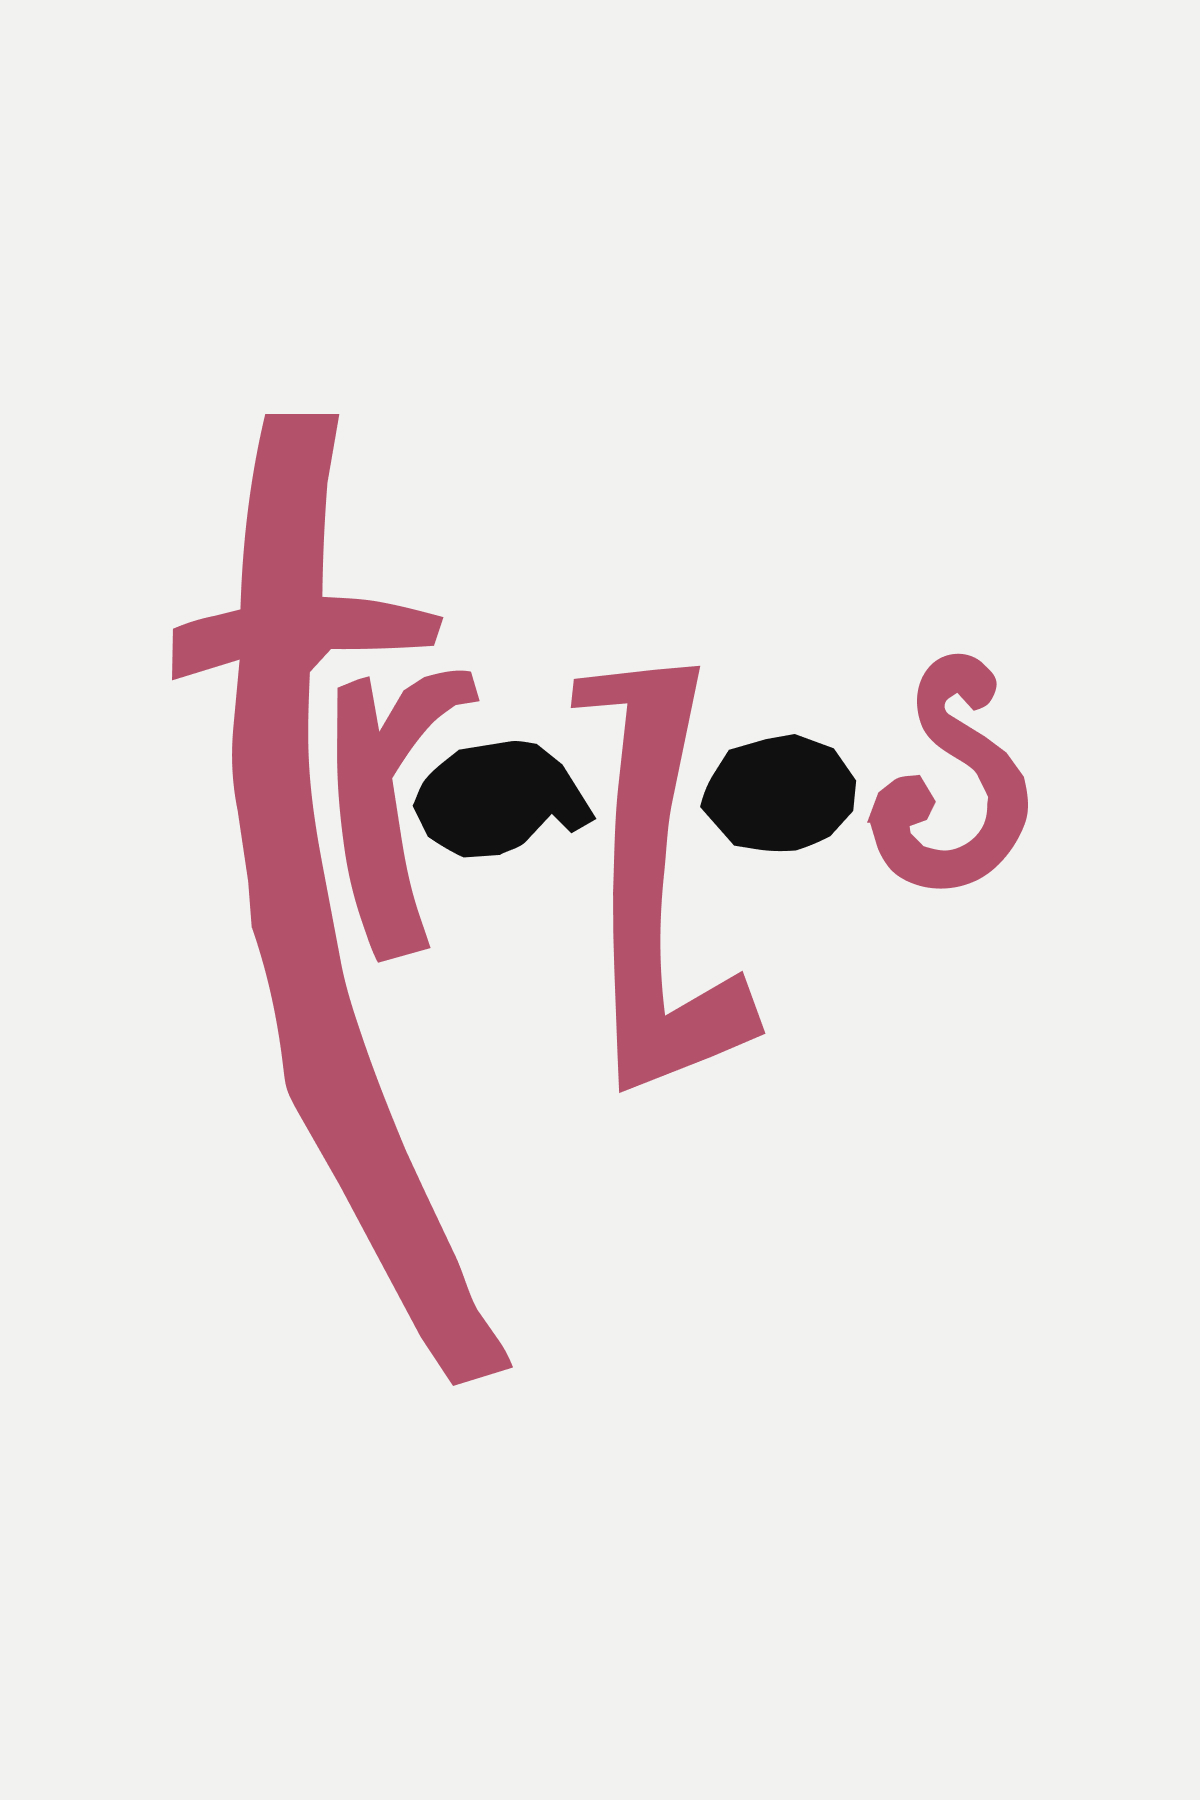
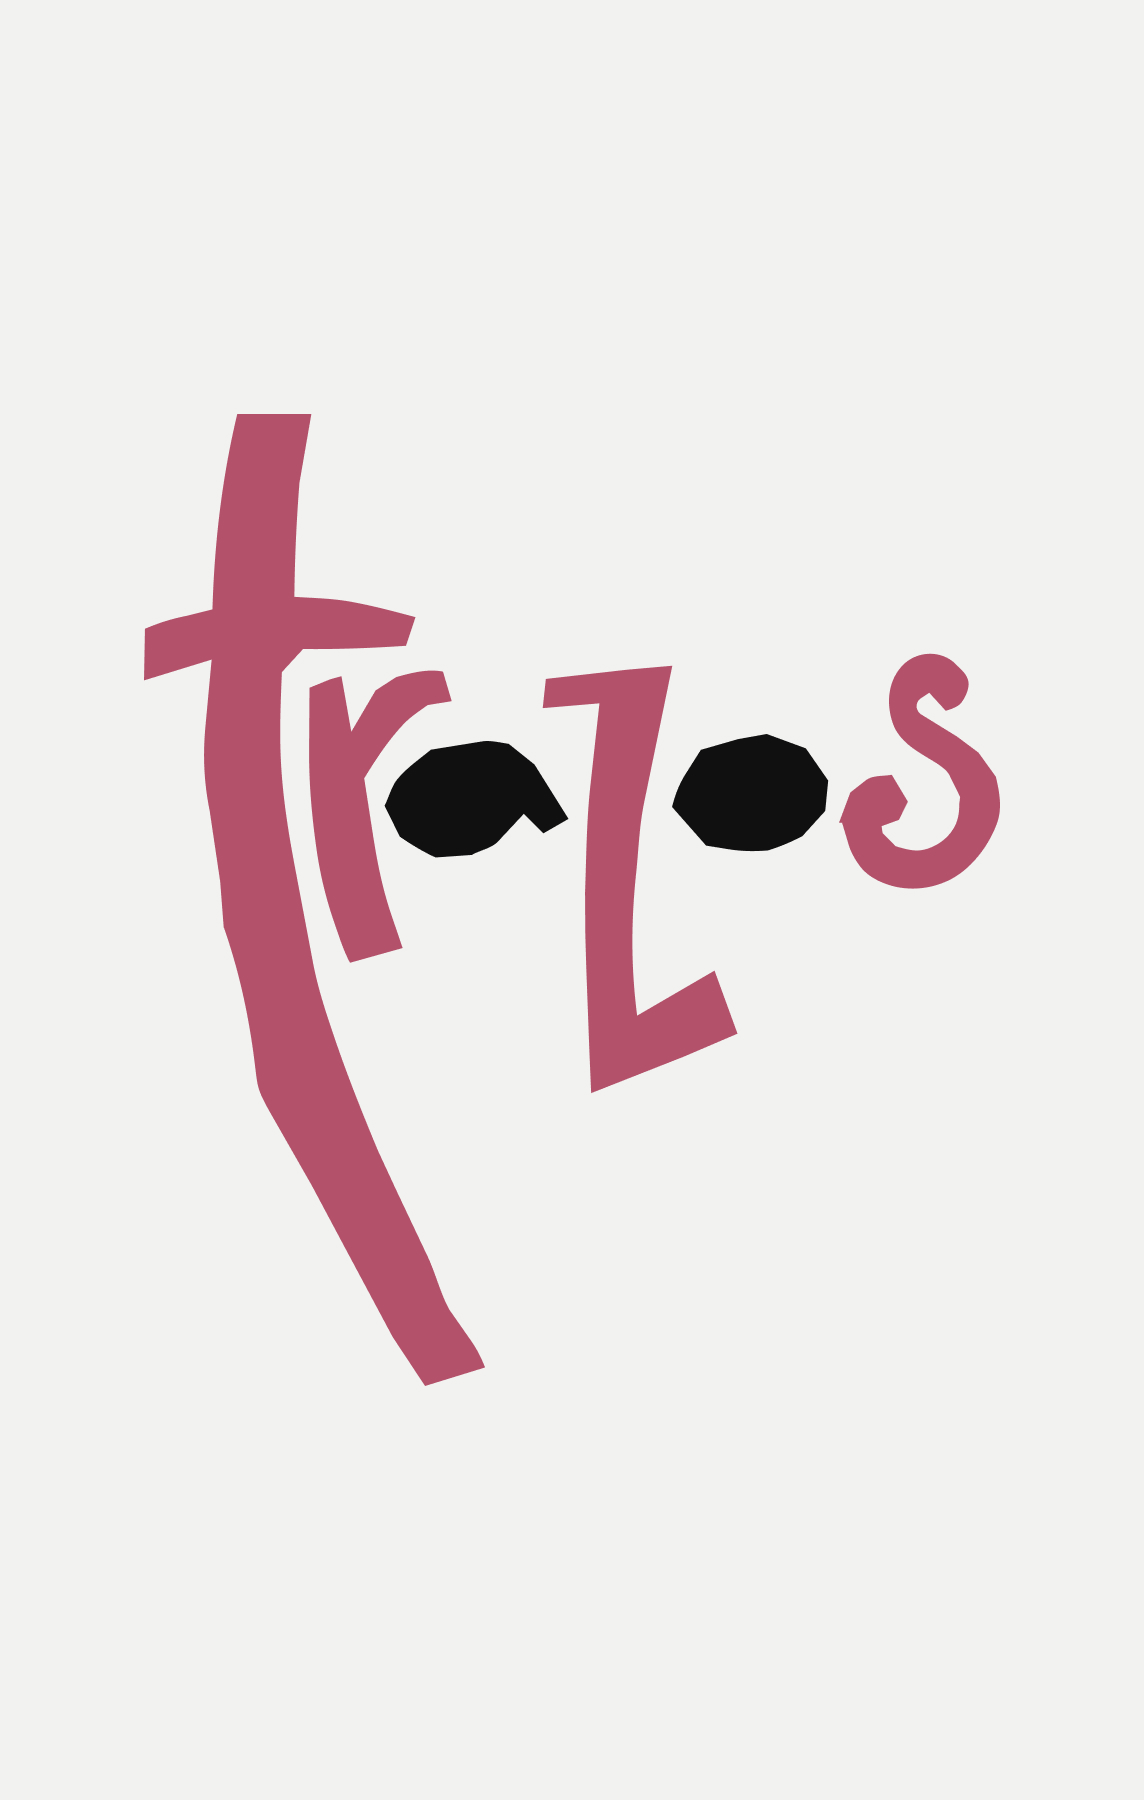
fix: imaxe de Trazos simple (sen fondo gris) + imaxes actualizadas
Elimínase work-image--graphic para mostrar a imaxe sen contedor
de cor e coa proporción natural.

diff --git a/work/trazos.html b/work/trazos.html
@@ -79,7 +79,7 @@
     <!-- Imaxe principal: portada do catálogo -->
     <div class="page-wrap">
       <div class="work-images-grid">
-        <img src="../img/works/trazos/trazos-01.jpg" alt="Trazos de Galicia — Portada do catálogo" class="work-image work-image--graphic">
+        <img src="../img/works/trazos/trazos-01.jpg" alt="Trazos de Galicia — Portada do catálogo" class="work-image">
       </div>
     </div>
 
